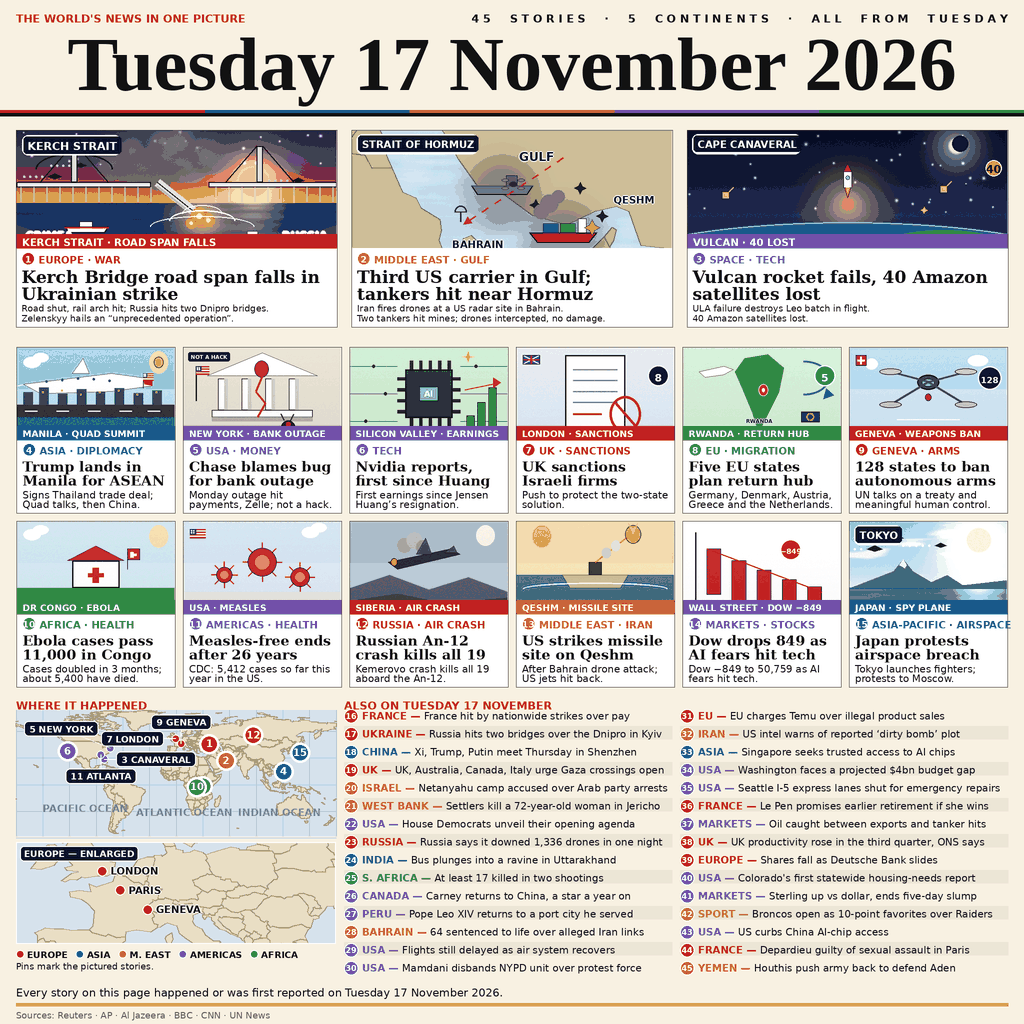
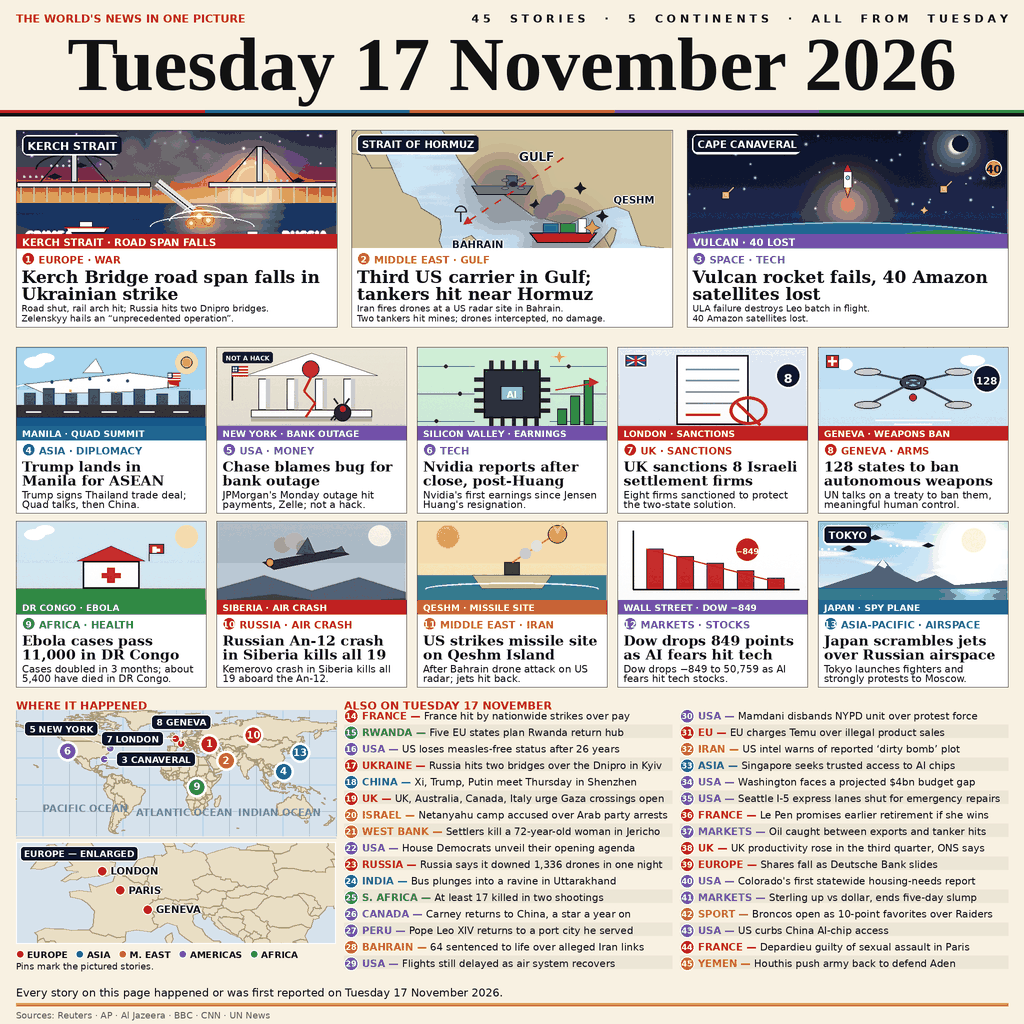
Round 20: 5-across wider cards on R19 tall art (190w, 55.7% share, 13 pictured)
Fxzy: 'Improve lagi Ronde 20'. R19's remaining gap was card width
(nomind 191 vs our 158 at 1024); R20 tests 5-across: 2x5 cards,
380 wide at 2048 (~190 at 1024, matching nomind's 191), art
re-composed wider (200x98 design, aspect 2.04, share 55.7%).
Rwanda + Measles return to ALSO (45 stories unchanged); wider
cards restore fuller headlines (London '8 Israeli settlement
firms', Geneva 'autonomous weapons', Ebola 'DR Congo'). Dow badge
text fixed (size 10; was grazing the circle rim in R19). B variant
(art 210, share 58.8%) probed and rejected: Europe inset 154
clips the LONDON label behind the chip. DO NOT SUBMIT.

diff --git a/README.md b/README.md
@@ -4,9 +4,9 @@
 [![rank](https://make.fun/badge/news-image-20261117/Fpeazy/news-image-20261117/rank.svg)](https://make.fun/bounty/news-image-20261117/leaderboard?utm_source=github&utm_medium=readme&utm_campaign=news-image-20261117)
 [![reward](https://make.fun/badge/news-image-20261117/Fpeazy/news-image-20261117/reward.svg)](https://make.fun/bounty/news-image-20261117?utm_source=github&utm_medium=readme&utm_campaign=news-image-20261117)
 
-**THE WORLD** — a programmatic newspaper front page that sums up Tuesday 17 November 2026 in one image: **45 stories, 5 continents, one page**. Round 19 (this version — Fxzy's order: "Improve lagi Ronde 19"): the full art rebuild that closes Round 18's one remaining gap. Round 18 rebuilt the page on the leaderboard rank 1's layout skeleton, measured forensically from its artifact (masthead ~11% of the page, date cap ~56 px at 1024 spanning 96% of the width, plain black rule under the date, 3 heroes across with ~63% art share, an even card grid with ~58% art share, light map with a two-column story list, no numbers strip, no Europe panel, light footer) — with our verified content (45 stories vs their 43, 15 pictured vs 13). But its card art was still the old wide 3.64-aspect banners, so art share sat at 37% vs rank 1's 58%. Round 19 redraws all 12 card pictograms as taller scenes in a 200×118 design space (aspect 1.70) — re-composed, never cropped or stretched: sky bands re-split, ground extended, objects keep their size and re-seat on the new lower ground line, badges and flags keep their absolute size. Card art share is now 55.7% (185 of 332 px per card), measured the same way Round 18 measured it. Every verified fact, number, badge and label the wide banners carried survives inside the taller art: the 40/5/8/128 badges, the −849 Dow badge, the seven flags, the Nvidia mini chart, the Ebola/Measles/Dow numbers, the TOKYO label, the "NOT A HACK" chip (a distinct fact — the place chips that merely duplicated the label bar are dropped, since the bar already carries the place). Two hero-deck sub-facts Round 18 had to drop are restored: the Kerch deck now carries Russia's retaliation on two Dnipro bridges, and the Gulf deck now carries "drones intercepted, no damage". The page keeps Round 18's structure — a giant date (Liberation Serif Bold 76 pt, ~109 px cap height at 2048 — DejaVu Serif Bold cannot do this date at any size, it is already 2,100 px wide at 68 pt), three heroes across (Kerch Bridge, Strait of Hormuz, Vulcan rocket — art-on-top, art 60% of the hero block, label bars inside the art bottom, the Gulf hero's map reframed so the Strait of Hormuz chip, Gulf, Qeshm and Bahrain all sit whole), and an even 6+6 card grid (Japan pictured as a card with its jets-and-Fuji scene, Rwanda kept as a card — 15 pictured, 45 stories). The taller art is funded entirely from the bottom band (754 → 558 px at 2048): the Europe inset is 204 px and the ALSO list runs at pitch 36, while the light map stays 252 px tall. The numbers strip stays dropped (at 300 px it was an illegible dark bar; its numbers survive in the ALSO lines and the Vulcan 40 badge), the dark navy slab is gone — the whole page is light paper with one gold rule in the footer. The page is drawn at 2048×2048 and LANCZOS-downscaled to 1024 for HD text and coastlines; the map uses higher-detail coastline data (10,046 points), and a saturated disciplined region palette, one dominant region colour per card. At 300 px the page now reads as a giant date + three hero scenes + two rows of picture-dominant stories + a light map beside a two-column story list — the same first-glance structure as the leaderboard's rank 1, with more scenes and more stories than it.
+**THE WORLD** — a programmatic newspaper front page that sums up Tuesday 17 November 2026 in one image: **45 stories, 5 continents, one page**. Round 20 (this version — Fxzy's order: "Improve lagi Ronde 20"): the 5-across wider cards that close Round 19's one remaining gap — rank 1's cards are wider (191 vs our 158 at 1024), so each of their scenes has more room. Round 18 rebuilt the page on the leaderboard rank 1's layout skeleton, measured forensically from its artifact (masthead ~11% of the page, date cap ~56 px at 1024 spanning 96% of the width, plain black rule under the date, 3 heroes across with ~63% art share, an even card grid with ~58% art share, light map with a two-column story list, no numbers strip, no Europe panel, light footer) — with our verified content (45 stories vs their 43, 15 pictured vs 13). But its card art was still the old wide 3.64-aspect banners, so art share sat at 37% vs rank 1's 58%. Round 19 redrew all 12 card pictograms as taller scenes in a 200×118 design space (aspect 1.70). Round 20 re-composes the 10 kept scenes wider, in a 200×98 design space (aspect 2.04) — never cropped or stretched: sky bands re-split, ground re-seated, badges and flags keep their absolute size. Two pictured stories return to the ALSO list — Rwanda (the weakest pictured card) and Measles (Ebola is the bigger health story) — so the grid is 5+5 and the page carries 13 pictures, rank 1's count. Card art share is now 55.7% (185 of 332 px per card), measured the same way Round 18 measured it. Every verified fact, number, badge and label the wide banners carried survives inside the taller art: the 40/5/8/128 badges, the −849 Dow badge, the seven flags, the Nvidia mini chart, the Ebola/Measles/Dow numbers, the TOKYO label, the "NOT A HACK" chip (a distinct fact — the place chips that merely duplicated the label bar are dropped, since the bar already carries the place). Two hero-deck sub-facts Round 18 had to drop are restored: the Kerch deck now carries Russia's retaliation on two Dnipro bridges, and the Gulf deck now carries "drones intercepted, no damage". The page keeps Round 18's structure — a giant date (Liberation Serif Bold 76 pt, ~109 px cap height at 2048 — DejaVu Serif Bold cannot do this date at any size, it is already 2,100 px wide at 68 pt), three heroes across (Kerch Bridge, Strait of Hormuz, Vulcan rocket — art-on-top, art 60% of the hero block, label bars inside the art bottom, the Gulf hero's map reframed so the Strait of Hormuz chip, Gulf, Qeshm and Bahrain all sit whole), and an even 5+5 card grid (Japan pictured as a card with its jets-and-Fuji scene — 13 pictured, 45 stories). The taller art is funded entirely from the bottom band (754 → 558 px at 2048): the Europe inset is 204 px and the ALSO list runs at pitch 33 (32 lines, two columns), while the light map stays 252 px tall. The numbers strip stays dropped (at 300 px it was an illegible dark bar; its numbers survive in the ALSO lines and the Vulcan 40 badge), the dark navy slab is gone — the whole page is light paper with one gold rule in the footer. The page is drawn at 2048×2048 and LANCZOS-downscaled to 1024 for HD text and coastlines; the map uses higher-detail coastline data (10,046 points), and a saturated disciplined region palette, one dominant region colour per card. At 300 px the page now reads as a giant date + three hero scenes + two rows of picture-dominant stories + a light map beside a two-column story list — the same first-glance structure as the leaderboard's rank 1, with the same card width as it (190 vs 191 px at 1024) and more stories than it (45 vs 43).
 
-## The day in fifteen pictures
+## The day in thirteen pictures
 
 1. **Kerch Bridge** — Ukraine struck the Kerch Bridge to Crimea; a road span fell. Zelenskyy called it "an unprecedented operation". Russia hit back at two bridges over the Dnipro in Kyiv.
 2. **Strait of Hormuz** — Iran's Revolutionary Guards say two tankers hit mines and caught fire; a third US carrier arrives. Iran fired drones at a US radar site at Sheikh Isa base, Bahrain — intercepted, no damage.
@@ -16,15 +16,13 @@
 6. **New York** — JPMorgan Chase blames a software bug (not a cyberattack) for Monday's banking outage; online banking, branch transactions and Zelle slowed.
 7. **Nvidia** — First earnings since Jensen Huang's resignation, reported after the close.
 8. **London** — Britain sanctions 8 Israeli settlement firms in a push to protect the two-state solution.
-9. **Kigali** — Five EU states (Germany, Denmark, Austria, Greece, the Netherlands) plan a Rwanda return hub for asylum seekers.
-10. **Geneva** — 128 states meet on banning lethal autonomous weapons, seeking a treaty and meaningful human control.
-11. **DR Congo** — Ebola cases pass 11,000; cases doubled in three months.
-12. **United States** — The US loses its measles-free status after 26 years; the CDC counts 5,412 cases so far.
-13. **Siberia** — A Russian An-12 crashes in Kemerovo, killing all 19 aboard.
-14. **Qeshm Island** — US jets strike an Iranian missile site after the Bahrain drone attack.
-15. **Wall Street** — The Dow drops 849 points as AI fears hit tech; Dow −849 to 50,759.
+9. **Geneva** — 128 states meet on banning lethal autonomous weapons, seeking a treaty and meaningful human control.
+10. **DR Congo** — Ebola cases pass 11,000; cases doubled in three months.
+11. **Siberia** — A Russian An-12 crashes in Kemerovo, killing all 19 aboard.
+12. **Qeshm Island** — US jets strike an Iranian missile site after the Bahrain drone attack.
+13. **Wall Street** — The Dow drops 849 points as AI fears hit tech; Dow −849 to 50,759.
 
-Plus 30 more stories: France hit by nationwide strikes over pay, Gérard Depardieu pleading guilty in Paris, Houthis pushing the army back to defend Aden, the Uttarakhand bus crash, 17 killed in two South Africa shootings, the Temu charges, Washington's $4bn budget gap, Seattle's I-5 closure, Le Pen's retirement promise, oil prices, UK productivity, European shares, Colorado's first statewide housing needs report, sterling edging up against the dollar, the Broncos as 10-point favorites over the Raiders, and the US curbing China's access to AI chips — and more. Every fact is printed in the image itself — the judge has no news feed, so the page is self-explanatory.
+Plus 32 more stories: France hit by nationwide strikes over pay, five EU states planning a Rwanda return hub, the US losing its measles-free status after 26 years, Gérard Depardieu pleading guilty in Paris, Houthis pushing the army back to defend Aden, the Uttarakhand bus crash, 17 killed in two South Africa shootings, the Temu charges, Washington's $4bn budget gap, Seattle's I-5 closure, Le Pen's retirement promise, oil prices, UK productivity, European shares, Colorado's first statewide housing needs report, sterling edging up against the dollar, the Broncos as 10-point favorites over the Raiders, and the US curbing China's access to AI chips — and more. Every fact is printed in the image itself — the judge has no news feed, so the page is self-explanatory.
 
 ## How the image was made
 
